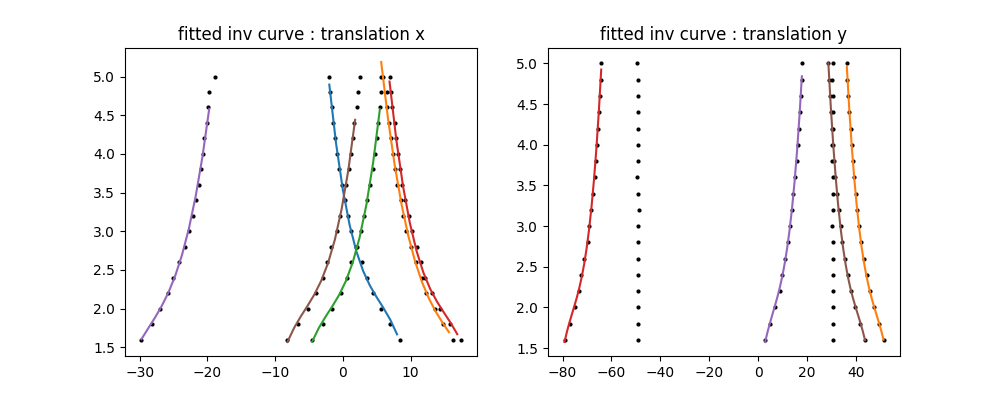
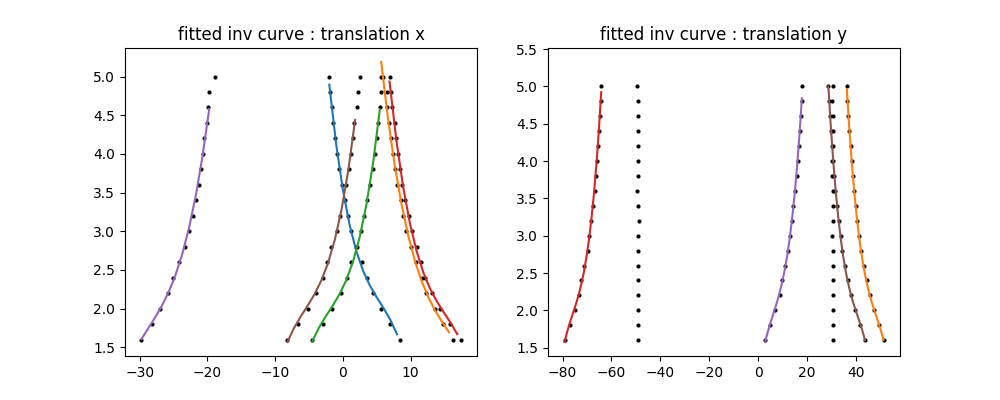
new pre lens correction

diff --git a/airphen/spectral_image.py b/airphen/spectral_image.py
@@ -11,13 +11,32 @@ def pair_band_iterator(k):
             yield (i,j)
 
 class SpectralImage:
-    def __init__(self, set, subset, prefix, height):
+    def __init__(self, set, subset, prefix, conf_dir, height):
         self.set = set
         self.subset = subset
         self.prefix = prefix
         self.path = set + '/' + str(subset) + '/'
-        self.loaded = [read_tiff(self.path + prefix + str(i) + 'nm.tif') for i in all_bands]
         
+        self.loaded = [None] * len(all_bands)
+        self.mtx = [None] * len(all_bands)
+        self.dist = [None] * len(all_bands)
+        self.cameramtx = [None] * len(all_bands)
+        
+        pad = 22
+        
+        try:
+            for i,b in enumerate(all_bands):
+                self.mtx[i] = np.load(conf_dir+'len_mtx_' + str(b) + '.npy')
+                self.dist[i] = np.load(conf_dir+'len_dist_' + str(b) + '.npy')
+                self.cameramtx[i] = np.load(conf_dir+'len_cameramtx_' + str(b) + '.npy')
+                self.loaded[i] = read_tiff(self.path + prefix + str(b) + 'nm.tif')
+                self.loaded[i] = cv2.undistort(self.loaded[i], self.mtx[i], self.dist[i], None, self.cameramtx[i])
+        except:
+            raise FileNotFoundError()
+            
+        self.mtx = np.vstack(self.mtx)
+        self.cameramtx = np.vstack(self.mtx)
+
         self.ground_thrust = cv2.imread(self.path + prefix + 'mask.jpg')
         
         if self.ground_thrust is None:
@@ -28,7 +47,7 @@ class SpectralImage:
         
         # nearest chessboard points if not given
         if type(height) is str:
-            self.chessboard = np.load(height).astype('float32')
+            self.chessboard = np.load(conf_dir+height).astype('float32')
         self.registred = self.loaded
         self.height = height
     pass
@@ -63,12 +82,12 @@ class SpectralImage:
             return a*x**3 + b*x**2 + c*x + d
             
         inv_model = np.array([
-            [-0.00424059    ,  0.06992566    , -0.52159131    ,  3.53416035],
-            [-2.21715358e-03,  1.04083738e-01, -1.75671654e+00,  1.21939587e+01],
-            [0.00377931     ,  0.02339037    ,  0.18219811    ,  2.27086661],
-            [-3.45198124e-03,  1.56572048e-01, -2.49924103e+00,  1.58468578e+01],
-            [2.26938044e-03 ,  1.94965085e-01,  5.72026284e+00,  5.89777906e+01],
-            [0.00356177     ,  0.05984146    ,  0.47140347    ,  3.37161168],
+            [-4.24059294e-03,  6.99256583e-02, -5.21591305e-01,  3.53416036e+00],
+            [-2.21715248e-03,  1.04083702e-01, -1.75671616e+00,  1.21939575e+01],
+            [ 3.77931305e-03,  2.33903671e-02,  1.82198111e-01,  2.27086660e+00],
+            [-3.45198089e-03,  1.56572035e-01, -2.49924089e+00,  1.58468573e+01],
+            [ 2.26938774e-03,  1.94965617e-01,  5.72027561e+00,  5.89778918e+01],
+            [ 3.56177384e-03,  5.98414660e-02,  4.71403466e-01,  3.37161167e+00],
         ])
             
         # alligne trough affine transfrom using pre-callibration
@@ -111,11 +130,23 @@ class SpectralImage:
             crop_all(self, self.registred, min_xy, max_xy)
             
             all_translation = transform[:,:,2] - centers
-            estimated = np.array([eval_inv_model(all_translation[i,0], *inv_model[i]) for i in range(len(all_bands))])
-            self.estimated_height = estimated.mean()
+            estimated_height = [eval_inv_model(all_translation[i,0], *inv_model[i]) for i in range(len(inv_model))]
+            self.estimated_height = estimated_height[1]
             
             if verbose > 0:
-                print('re-estimated height =', estimated.mean())
+                print('re-estimated height =', estimated_height)
+                
+        #mtx = np.eye(3)
+        #dist = np.zeros((1,4))
+        #cammtx = np.eye(3)
+        #cammtx[0,2] = -21
+        #cammtx[1,2] = -21
+        #cammtx[0,0] = 1.2
+        #cammtx[1,1] = 1.2
+        #
+        for i in range(len(self.registred)):
+            self.registred[i] = self.registred[i][21:-21:, 21:-21]
+            self.registred[i] = cv2.resize(self.registred[i], (1200,800))
         
         return self.registred, nb_kp
         
@@ -125,8 +156,8 @@ class SpectralImage:
         #img[:,:,0] = false_color_normalize(self.registred[0])*92  # B
         #img[:,:,1] = false_color_normalize(self.registred[1])*220 # G
         #img[:,:,2] = false_color_normalize(self.registred[2])*200 # R
-        img[:,:,0] = 40+false_color_normalize(self.registred[0])*92  # B
-        img[:,:,1] = 40+false_color_normalize(self.registred[1])*220 # G
-        img[:,:,2] = 40+false_color_normalize(self.registred[2])*200 # R
+        img[:,:,0] = 20+false_color_normalize(self.registred[0])*92  # B
+        img[:,:,1] = 20+false_color_normalize(self.registred[1])*220 # G
+        img[:,:,2] = 20+false_color_normalize(self.registred[2])*200 # R
         return img.clip(0,255).astype('uint8')
         

diff --git a/airphen/image_processing.py b/airphen/image_processing.py
@@ -111,12 +111,18 @@ def affine_transform_linear(S, loaded):
         
     # mean for factor $a,b,c,d$
     rotation_scale = [
-       [ 1.00338690e+00, -2.36790400e-04,  7.42199784e-04,  1.00322241e+00],
-       [ 9.96668519e-01, -6.35845767e-04,  1.33195202e-03,  9.97611207e-01],
-       [ 1.00287955e+00, -1.44683277e-04, -2.50432200e-04,  1.00280779e+00],
-       [ 9.98396830e-01,  2.36257574e-03, -1.61286382e-03,  9.97841848e-01],
-       [ 9.97775109e-01, -4.42514896e-04,  2.19043135e-04,  9.96903476e-01],
-       [ 1.00091705e+00, -9.09167955e-04, -4.29086670e-04,  1.00163444e+00],
+        [ 1.00338690e+00, -2.36790400e-04,  7.42199784e-04,  1.00322241e+00],
+        [ 9.96668519e-01, -6.35845767e-04,  1.33195202e-03,  9.97611207e-01],
+        [ 1.00287955e+00, -1.44683277e-04, -2.50432200e-04,  1.00280779e+00],
+        [ 9.98396830e-01,  2.36257574e-03, -1.61286382e-03,  9.97841848e-01],
+        [ 9.97775109e-01, -4.42514896e-04,  2.19043135e-04,  9.96903476e-01],
+        [ 1.00091705e+00, -9.09167955e-04, -4.29086670e-04,  1.00163444e+00],
+       ##[ 1.00338690e+00, -2.36790400e-04,  7.42199784e-04,  1.00322241e+00],
+       ##[ 9.96668519e-01, -6.35845767e-04,  1.33195202e-03,  9.97611207e-01],
+       ##[ 1.00287955e+00, -1.44683277e-04, -2.50432200e-04,  1.00280779e+00],
+       ##[ 9.98396830e-01,  2.36257574e-03, -1.61286382e-03,  9.97841848e-01],
+       ##[ 9.97775109e-01, -4.42514896e-04,  2.19043135e-04,  9.96903476e-01],
+       ##[ 1.00091705e+00, -9.09167955e-04, -4.29086670e-04,  1.00163444e+00],
        #[1.0036159  0.99666875 1.00269805 0.9988595  0.99782515 1.0003496 ]
        #[-4.70739195e-04 -7.48567882e-04  9.36510863e-05  2.09068802e-03 -4.99350475e-04 -4.66122814e-04]
        #[ 0.00074741  0.0011211  -0.00017564 -0.00169793  0.00027161 -0.00026639]
@@ -124,12 +130,12 @@ def affine_transform_linear(S, loaded):
     ]
     
     translation_model_params = [
-        ([ -0.214341  ,   3.0647655 , -15.68355805,  26.53635286], [ 4.89009072e-02, -5.43008533e-01,  1.81761102e+00,   -5.09998059e+01]),
-        ([ -0.29732821,   3.78134406, -17.44772836,  35.72751695], [ -0.40024226   ,  5.23050824    , -24.75862376   ,   79.10072998    ]),
-        ([  0.28576632,  -3.75413829,  17.67938069, -24.27180615], [ 1.02607225e-02, -5.42365651e-02, -4.57016171e-02,    3.07288625e+01]),
-        ([ -0.30396441,   3.92977251, -18.21826028,  37.60667257], [  0.38182383   , -5.05192214    ,  24.18969389   , -106.39507804    ]),
-        ([  0.28246774,  -3.64513373,  17.13176686, -48.95685931], [  0.34669138   , -4.67803776    ,  23.00677902   ,  -23.31192197    ]),
-        ([  0.27330859,  -3.63229474,  17.37849686, -27.71094479], [ -0.41024805   ,  5.34334935    , -25.10841229   ,   71.80935994    ]),
+        ([-2.14341005e-01,  3.06476550e+00, -1.56835580e+01,  2.65363529e+01], [  4.89008103e-02, -5.43007565e-01,  1.81760798e+00, -5.09998030e+01]),
+        ([-2.97328285e-01,  3.78134481e+00, -1.74477307e+01,  3.57275192e+01], [ -4.00242147e-01,  5.23050713e+00, -2.47586203e+01,  7.91007266e+01]),
+        ([ 2.85766303e-01, -3.75413817e+00,  1.76793803e+01, -2.42718058e+01], [  1.02607225e-02, -5.42365651e-02, -4.57016171e-02,  3.07288625e+01]),
+        ([-3.03964423e-01,  3.92977267e+00, -1.82182608e+01,  3.76066731e+01], [  3.81823772e-01, -5.05192154e+00,  2.41896920e+01, -1.06395076e+02]),
+        ([ 2.82467733e-01, -3.64513371e+00,  1.71317668e+01, -4.89568592e+01], [  3.46691296e-01, -4.67803690e+00,  2.30067763e+01, -2.33119194e+01]),
+        ([ 2.73308578e-01, -3.63229467e+00,  1.73784966e+01, -2.77109446e+01], [ -4.10248022e-01,  5.34334908e+00, -2.51084115e+01,  7.18093591e+01]),
     ]
     
     for i in range(len(loaded)):

diff --git a/0.curve-fit.py b/0.curve-fit.py
@@ -34,7 +34,11 @@ for i in height:
   all_transform_d.append(transform[:,1,1])
   all_transform_x.append(transform[:,0,2])
   all_transform_y.append(transform[:,1,2])
+  
 pass
+
+rotation = np.vstack([all_transform_a[0], all_transform_b[0], all_transform_c[0], all_transform_d[0]])
+print(rotation.transpose())
 
 all_transform_a = np.array(all_transform_a)
 all_transform_b = np.array(all_transform_b)
@@ -62,6 +66,7 @@ fitted_y = []
 plt.figure(figsize=(10,4))
 plt.subplot(121)
 
+x_model = []
 plt.title('fitted curve : translation x')
 for i in range(all_transform_x.shape[1]):
     x, y = height, all_transform_x[:,i]
@@ -69,10 +74,12 @@ for i in range(all_transform_x.shape[1]):
     x_resampled = np.arange(min(x), max(x), 0.0025)
     plt.scatter(x, y, s=4, c='black', label=bands_text[i])
     plt.plot(x_resampled, func(x_resampled, *popt), label=bands_text[i])
+    x_model.append(popt)
     print(bands_text[i], 'x :', popt)
     
 plt.subplot(122)
 
+y_model = []
 plt.title('fitted curve : translation y')
 for i in range(all_transform_y.shape[1]):
     x, y = height, all_transform_y[:,i]
@@ -80,7 +87,13 @@ for i in range(all_transform_y.shape[1]):
     x_resampled = np.arange(min(x), max(x), 0.0025)
     plt.scatter(x, y, s=4, c='black', label=bands_text[i])
     plt.plot(x_resampled, func(x_resampled, *popt), label=bands_text[i])
+    y_model.append(popt)
     print(bands_text[i], 'y :', popt)
     
 plt.savefig('figures/affine-curve-fit.png')
 plt.show()
+
+x_matrix = np.vstack(x_model)
+y_matrix = np.vstack(y_model)
+matrix = np.hstack([x_model, y_model])
+print(matrix)

diff --git a/1.view-single.py b/1.view-single.py
@@ -5,11 +5,11 @@ import cv2
 
 from airphen.spectral_image import *
 
-if False:
-    path = '/media/ovan/31F66DD04B004F4B/database/inra2/'
-    folder = '20190416_055537'
+if True:
+    path = '/media/ovan/31F66DD04B004F4B1/database/inra2/'
+    folder = 'haricot1/'
     prefix = '0008_'
-    height = './data/2.0.npy'
+    height = '2.0.npy'
 else:
     path = '/home/javayss/Documents/code/merge/data/'
     folder = ''
@@ -18,7 +18,7 @@ else:
 pass
 
 start_time = time.time()
-S = SpectralImage(path, folder, prefix, height)
+S = SpectralImage(path, folder, prefix, 'data/', height)
     
 loaded = S.loaded
 loaded, nb_kp = S.spectral_registration(
@@ -36,11 +36,11 @@ false_color = S.compute_false_color()
 cv2.imshow('false color', false_color)
 cv2.waitKey(1)
 
-#for i,b in enumerate(loaded):
-#    b = gradient_normalize(b, 0.1)
-#    cv2.imwrite('/tmp/bands-'+str(i)+'.png', b.astype('uint8'))
-#    b = build_gradient(b, method='Ridge')
-#    cv2.imwrite('/tmp/grad-'+str(i)+'.png', b)
+for i,b in enumerate(loaded):
+    b = gradient_normalize(b, 0.1)
+    cv2.imwrite('/tmp/bands-'+str(i)+'.png', b.astype('uint8'))
+    b = build_gradient(b, method='Ridge')
+    cv2.imwrite('/tmp/grad-'+str(i)+'.png', b)
 
 while cv2.waitKey() != 27:
     pass

diff --git a/0.callibration.py b/0.callibration.py
@@ -9,7 +9,7 @@ from airphen.spectral_image import *
 
 chessboard_shape = (13,13)
 criteria = (cv2.TERM_CRITERIA_EPS + cv2.TERM_CRITERIA_MAX_ITER, 30, 0.001)
-directory = './data/step-chess/'
+directory = './data/steep-chess/'
 bands = [450, 570, 675, 710, 730, 850]
 
 height = [
@@ -24,14 +24,21 @@ for x in range(len(height)):
     h = height[x]
     print(h)
     
-    S = SpectralImage()
     imgpoints = [None] * len(bands)
     
     for s,i in enumerate(bands):
         path = directory + h + str(i) + 'nm.tif'
-        image = S.read_tiff(path)
+        image = read_tiff(path)
         #image = image / image.max()
         
+        mtx = np.load('data/len_mtx_' + str(i) + '.npy')
+        dist = np.load('data/len_dist_' + str(i) + '.npy')
+        cameramtx = np.load('data/len_cameramtx_' + str(i) + '.npy')
+        print(mtx)
+        print(dist)
+        print(cameramtx)
+        loaded = cv2.undistort(image, mtx, dist, None, cameramtx)
+
         if i == 450:
             image = image / image.max() * 0.8
         else:

diff --git a/0.curve-fit-inv.py b/0.curve-fit-inv.py
@@ -62,6 +62,8 @@ fitted_y = []
 plt.figure(figsize=(10,4))
 plt.subplot(121)
 
+model = []
+
 plt.title('fitted inv curve : translation x')
 for i in range(all_transform_x.shape[1]):
     x, y = all_transform_x[:,i], height
@@ -69,9 +71,14 @@ for i in range(all_transform_x.shape[1]):
     x_resampled = np.arange(min(x), max(x), 1)
     plt.scatter(x, y, s=4, c='black', label=bands_text[i])
     plt.plot(x_resampled, func(x_resampled, *popt), label=bands_text[i])
+    model.append(popt)
+    print(popt)
     print(bands_text[i], 'x :', popt)
     
 plt.subplot(122)
+
+matrix = np.vstack(model)
+print(matrix)
 
 plt.title('fitted inv curve : translation y')
 for i in range(all_transform_y.shape[1]):

diff --git a/1.view-film.py b/1.view-film.py
@@ -7,9 +7,9 @@ from airphen.data import *
 from airphen.spectral_image import *
 from glob import glob
 
-path = '/media/ovan/31F66DD04B004F4B/database/rose/'
-folder = 'mais2'
-height = './data/2.0.npy'
+path = '/media/ovan/31F66DD04B004F4B1/database/rose2_haricot/'
+folder = 'test'
+height = '1.8.npy'
 
 filenames = glob(path+folder+'/*_450*')
 filenames = [i.split('/')[-1] for i in filenames]
@@ -21,7 +21,7 @@ for i in range(0, len(filenames), 20):
     start_time = time.time()
     f = filenames[i]
     
-    S = SpectralImage(path, folder, f+'_', height)
+    S = SpectralImage(path, folder, f+'_', 'data/', height)
     
     loaded, nb_kp = S.spectral_registration(
         method='GFTT1',

diff --git a/1.view.py b/1.view.py
@@ -11,7 +11,7 @@ for h in height:
     start_time = time.time()
     S = SpectralImage(
         #'./data/steep-chess/', str(h), '',
-        './data/step/', str(h), '',
+        './data/step/', str(h), '', 'data/',
         h, # use linear model
         #'./data/' + str(h) + '.npy'
     )
